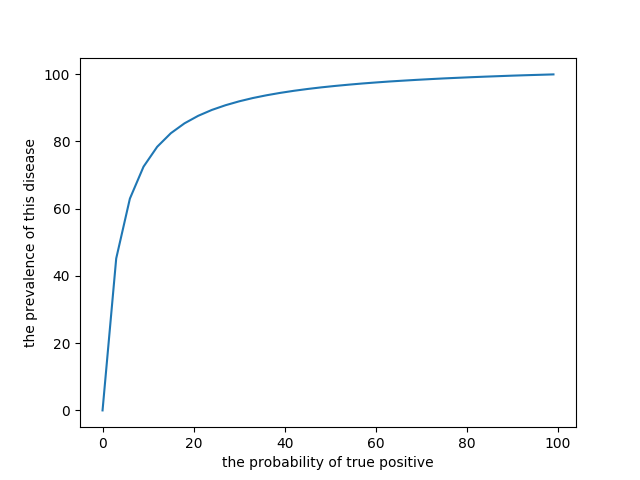
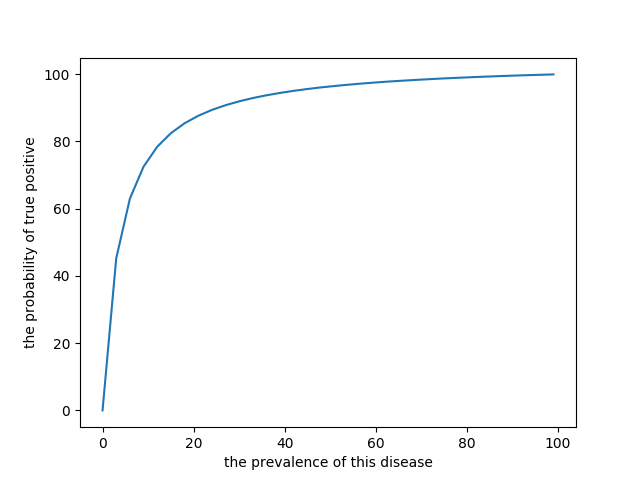
fix images

Changed region(s): [[0.3438, 0.9375, 0.6875, 1.0], [0.0312, 0.2812, 0.0625, 0.7188]]

diff --git a/README_CHINESE.md b/README_CHINESE.md
@@ -1,21 +1,22 @@
-###若某种疾病在所有人中患病率为1%，若患病，检验结果为阳性的概率（真阳性）为90%，未患病，而检验结果为阳性的概率（假阳性）为9%。
+### 若某种疾病在所有人中患病率为1%，若患病，检验结果为阳性的概率为90%，未患病，而检验结果为阳性的概率为9%。
 
-##如果我被检验为阳性，那么我真正患病的概率为多少？
-##70%?
-##60%?
-##50%?
-##40%?
-##10%?
+## 如果我被检验为阳性，那么我真正患病的概率为多少？
 
-
-
+# 70%?
+# 60%?
+# 50%?
+# 40%?
+# 10%?
 
 
 
-##答案
+
+
+
+## 答案
 只是 **9%**
 
-该病的病发率  | 检测结果为阳性时真正的患病几率 
+该病的病发率  | 真阳性 
 ----:|------:
 1%   |  9.17%
 2%   |  16.95%
@@ -55,11 +56,11 @@
 
 
 
-若患病，检验结果为阳性的概率（真阳性）  | 未患病，检验结果为阳性的概率（假阳性）
+若患病，检验结果为阳性的概率  | 未患病，检验结果为阳性的概率
 ----:|------:
 90%   |  3%
 
-该病的病发率  | 检测结果为阳性时真正的患病几率 
+该病的病发率  | 真阳性 
 ----:|------:
 1%   |  23.26%
 2%   |  37.97%
@@ -98,11 +99,11 @@
 99%  |  99.97%
 
 
-若患病，检验结果为阳性的概率（真阳性）  | 未患病，检验结果为阳性的概率（假阳性）
+若患病，检验结果为阳性的概率  | 未患病，检验结果为阳性的概率
 ----:|------:
 80%   |  3%
 
-该病的病发率  | 检测结果为阳性时真正的患病几率 
+该病的病发率  | 真阳性 
 ----:|------:
 1%   |  23.26%
 2%   |  37.97%
